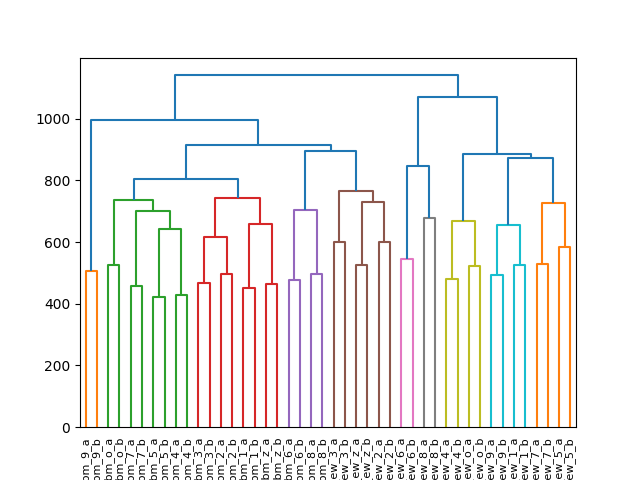
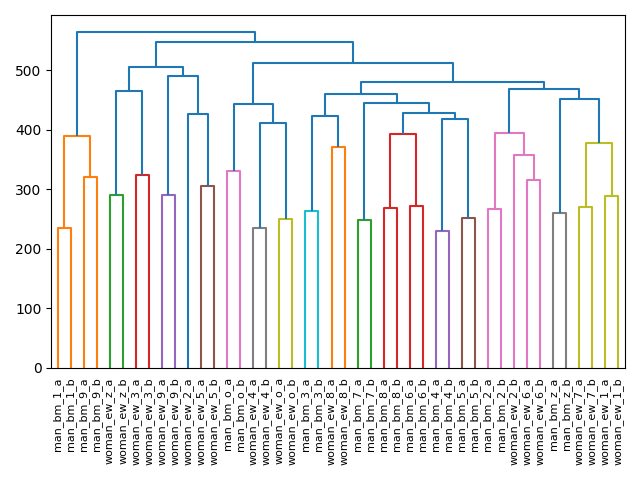
Add new plots for dtw

Changed region(s): [[0.0312, 0.0625, 0.9688, 1.0], [0.9062, 0.2812, 0.9688, 0.3125], [0.0312, 0.125, 0.0625, 0.1562]]

diff --git a/experiment4.py b/experiment4.py
@@ -14,12 +14,12 @@ data = np.load('lab1_data.npz', allow_pickle=True)['data']
 #euclidean_dist = np.linalg.norm(res1 - res2)
 #print(euclidean_dist)
 
-x = [0, 0, 100, 200, 300, 0, 0]
-y = [0, 0, 100, 200, 300, 0, 0]
+#x = [0, 0, 100, 200, 300, 0, 0]
+#y = [0, 0, 100, 200, 300, 0, 0]
 
-z = [0, 0, 0, 100, 200, 300, 0]
+#z = [0, 0, 0, 100, 200, 300, 0]
 
-print(helper_dtw(x, z, distance.euclidean))
+#print(helper_dtw(x, z))
 
 mfccs = []
 for i in range(len(data)):
@@ -29,10 +29,10 @@ mfccs = np.concatenate(mfccs)
 
 D = np.zeros([44, 44])
 
-for i in range(2):
-    for j in range(2):
+for i in range(44):
+    for j in range(44):
         print(str(i) + " " + str(j))
-        D[i][j]  = dtw(mfcc(data[i]['samples']),mfcc(data[j]['samples']), distance.euclidean)
+        D[i][j]  = dtw(mfcc(data[i]['samples']),mfcc(data[j]['samples']))
 
 plt.pcolormesh(D)
 plt.colorbar()
@@ -42,8 +42,9 @@ fname = 'dtw'
 plt.savefig("plots/" + fname + ".png")
 plt.show()
 
-dendrogram(linkage(D,method='complete'),labels = tidigit2labels(data))
 
+dendrogram(linkage(D,method='complete'),labels = tidigit2labels(data))
+plt.tight_layout()
 plt.savefig("plots/dendrogram.png")
 
 plt.show()

diff --git a/lab1_proto.py b/lab1_proto.py
@@ -166,6 +166,7 @@ def cepstrum(input, nceps):
 
 
 def euclideanDistance(digit1, digit2):
+
     N = digit1.shape[0]
     M = digit2.shape[0]
     distance = np.zeros((N, M))
@@ -190,7 +191,7 @@ def helper_dtw(utterance1,utterance2):
             #local_distance = euclideanDistance(utterance1, utterance2)
             Acc_distance[i,j] = local_distance[i,j] + min(Acc_distance[i-1,j], Acc_distance[i,j-1], Acc_distance[i-1,j-1])
 
-    return Acc_distance[N, M]
+    return Acc_distance[N-1, M-1]
 
 def dtw(x, y):
     """Dynamic Time Warping.
